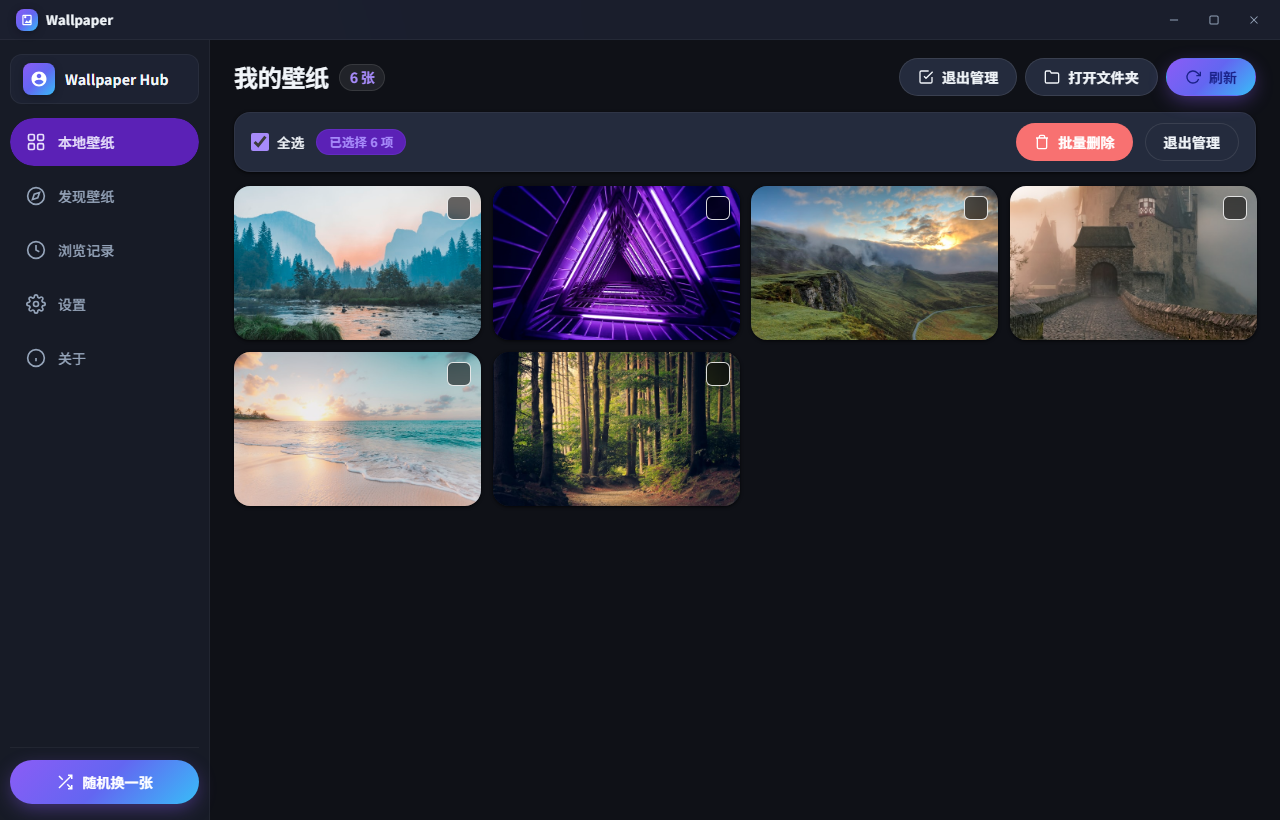
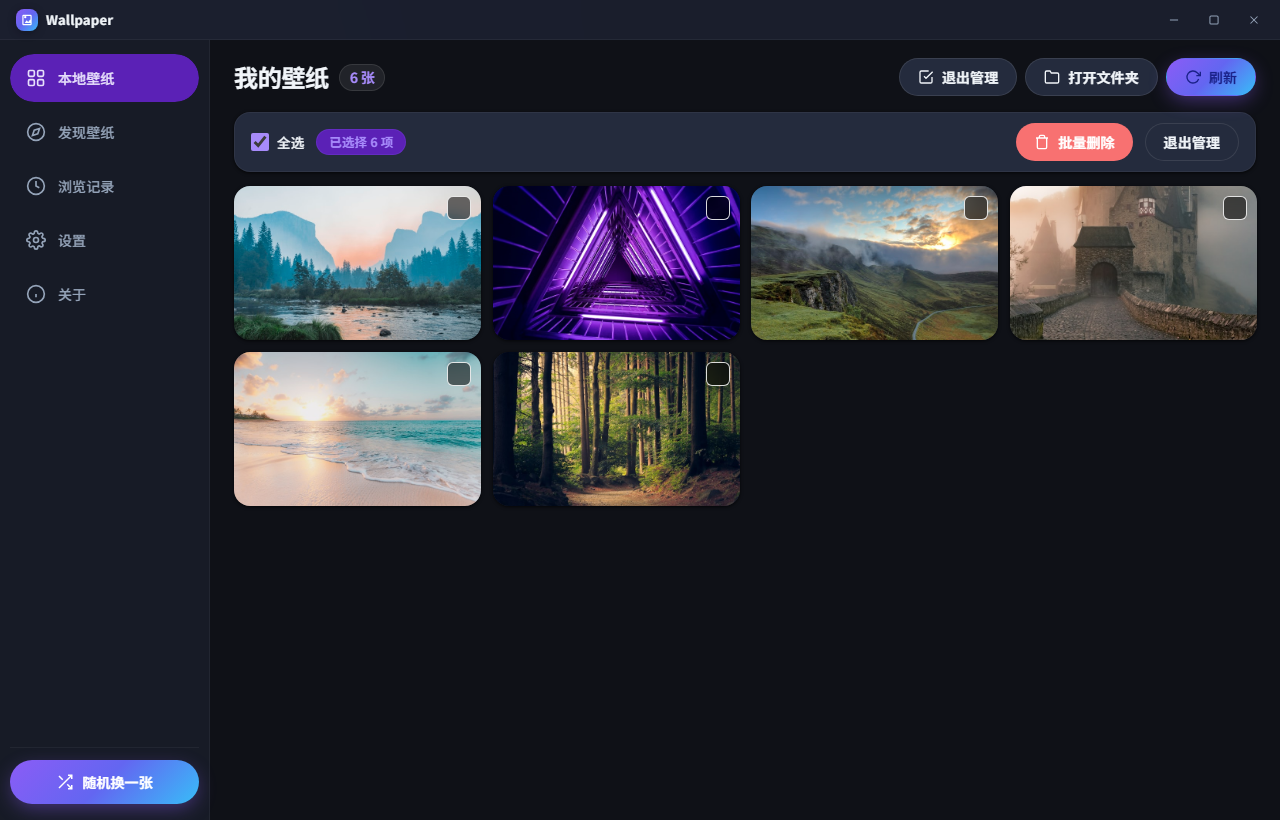
fix(v0.2.1): 优化侧边栏布局，移除响应式折叠断点与顶部卡片
- 移除 @media (max-width: 860px) 响应式折叠规则，解决高 DPI/窄窗口下侧边栏异常压缩为 80px 窄条的问题
- 移除侧边栏顶部冗余的头像及 Wallpaper Hub 用户卡片，导航菜单直接自顶部规范对齐起排
- 锁定侧边栏固定 210px 桌面级横向布局
- 更新界面实景截图并构建发布打包产物

Changed region(s): [[0.0, 0.061, 0.1562, 0.2439], [0.0, 0.2744, 0.0938, 0.3963], [0.0312, 0.4268, 0.0625, 0.4573]]

diff --git a/ui/styles.css b/ui/styles.css
@@ -8,7 +8,6 @@
 :root {
   /* 默认字体：鸿蒙舒适圆润 + Nunito / 微软雅黑 UI */
   --font-family: "HarmonyOS Sans SC", "HarmonyOS Sans", "PingFang SC", "Nunito", "Microsoft YaHei UI", -apple-system, sans-serif;
-  --nav-rail-width: 210px;
 
   /* ==========================================================================
      M3 Color System Tokens (Indigo Default / Master Theme)
@@ -1111,10 +1110,10 @@ body.theme-amoled .flutter-titlebar {
 }
 
 .flutter-nav-rail {
-  width: var(--nav-rail-width, 210px);
-  min-width: var(--nav-rail-width, 210px);
-  max-width: var(--nav-rail-width, 210px);
-  flex: 0 0 var(--nav-rail-width, 210px);
+  width: 210px;
+  min-width: 210px;
+  max-width: 210px;
+  flex: 0 0 210px;
   flex-shrink: 0;
   flex-grow: 0;
   background: var(--md-sys-color-surface-container-low);
@@ -1138,55 +1137,6 @@ body.theme-amoled .flutter-titlebar {
   gap: 14px;
 }
 
-.nav-profile-card {
-  display: flex;
-  align-items: center;
-  gap: 10px;
-  padding: 8px 12px;
-  border-radius: var(--md-shape-corner-md);
-  background: var(--md-sys-color-surface-container);
-  border: 1px solid var(--md-sys-color-outline-variant);
-  transition: background var(--md-sys-motion-duration-short) ease,
-              border-color var(--md-sys-motion-duration-short) ease;
-}
-
-.nav-profile-card:hover {
-  background: var(--md-sys-color-surface-container-high);
-  border-color: var(--md-sys-color-outline);
-}
-
-.nav-profile-avatar {
-  width: 32px;
-  height: 32px;
-  border-radius: var(--md-shape-corner-sm);
-  background: var(--md-sys-color-primary-gradient);
-  display: flex;
-  align-items: center;
-  justify-content: center;
-  box-shadow: 0 2px 8px rgba(0, 0, 0, 0.25);
-  flex-shrink: 0;
-}
-
-.nav-profile-avatar svg {
-  width: 18px;
-  height: 18px;
-  fill: #ffffff;
-}
-
-.nav-profile-info {
-  display: flex;
-  flex-direction: column;
-  overflow: hidden;
-}
-
-.nav-profile-name {
-  font-size: var(--md-sys-typescale-title-small-size, 14px);
-  font-weight: var(--md-sys-typescale-title-small-weight, 600);
-  color: var(--md-sys-color-on-surface);
-  white-space: nowrap;
-  text-overflow: ellipsis;
-  overflow: hidden;
-}
 
 .nav-menu {
   display: flex;
@@ -1386,78 +1336,7 @@ body.theme-amoled .flutter-titlebar {
   fill: none;
 }
 
-/* Responsive / Compact Navigation Rail (80px mode) */
-@media (max-width: 860px) {
-  :root {
-    --nav-rail-width: 80px;
-  }
-  .flutter-nav-rail {
-    width: 80px;
-    min-width: 80px;
-    max-width: 80px;
-    flex: 0 0 80px;
-    flex-shrink: 0;
-    padding: 12px 6px;
-    align-items: center;
-  }
 
-  .nav-profile-card {
-    padding: 6px;
-    justify-content: center;
-    border-radius: var(--md-shape-corner-sm);
-  }
-
-  .nav-profile-info {
-    display: none;
-  }
-
-  .nav-item,
-  .nav-rail-item {
-    flex-direction: column;
-    justify-content: center;
-    align-items: center;
-    gap: 4px;
-    height: 56px;
-    min-height: 56px;
-    max-height: 56px;
-    padding: 6px 2px;
-    border-radius: var(--md-shape-corner-md);
-  }
-
-  .nav-item .indicator-pill,
-  .nav-rail-item .indicator-pill {
-    inset: auto;
-    width: 56px;
-    height: 32px;
-    top: 4px;
-    left: 50%;
-    transform: translateX(-50%);
-    border-radius: var(--md-shape-corner-full);
-  }
-
-  .nav-item.active .indicator-pill,
-  .nav-rail-item.active .indicator-pill {
-    transform: translateX(-50%);
-  }
-
-  .nav-item .nav-item-label,
-  .nav-rail-item .nav-item-label {
-    font-size: 11px;
-    text-align: center;
-  }
-
-  .btn-quick-random span {
-    display: none;
-  }
-
-  .btn-quick-random {
-    width: 48px;
-    height: 48px;
-    padding: 0;
-    margin: 0 auto;
-    border-radius: var(--md-shape-corner-full);
-  }
-}
 
 /* ==========================================================================
    3) Main Stage & Pure Visual Grid

diff --git a/ui/index.html b/ui/index.html
@@ -40,18 +40,6 @@
       <!-- Flutter Navigation Rail -->
       <aside class="flutter-nav-rail" aria-label="Main Navigation">
         <div class="nav-rail-top">
-          <!-- Mini Profile Card -->
-          <div class="nav-profile-card">
-            <div class="nav-profile-avatar">
-              <svg viewBox="0 0 24 24" fill="currentColor">
-                <path d="M12 2C6.48 2 2 6.48 2 12s4.48 10 10 10 10-4.48 10-10S17.52 2 12 2zm0 3c1.66 0 3 1.34 3 3s-1.34 3-3 3-3-1.34-3-3 1.34-3 3-3zm0 14.2c-2.5 0-4.71-1.28-6-3.22.03-1.99 4-3.08 6-3.08 1.99 0 5.97 1.09 6 3.08-1.29 1.94-3.5 3.22-6 3.22z"/>
-              </svg>
-            </div>
-            <div class="nav-profile-info">
-              <span class="nav-profile-name">Wallpaper Hub</span>
-            </div>
-          </div>
-
           <!-- Navigation Items -->
           <nav class="nav-menu" role="navigation" aria-label="Destinations">
             <button class="nav-item nav-rail-item active" id="nav-tab-gallery" data-tab="gallery" aria-label="本地壁纸">
@@ -841,7 +829,7 @@
               </div>
               <h2 class="about-hero-title" data-i18n="about_app_name">Wallpaper 4K 壁纸管理器</h2>
               <div class="about-hero-badge-row">
-                <span class="about-version-badge" id="app-version-label">v0.2.0</span>
+                <span class="about-version-badge" id="app-version-label">v0.2.1</span>
                 <span class="about-tag-badge">Tauri v2</span>
                 <span class="about-tag-badge">Rust 2021</span>
                 <span class="about-tag-badge">Material You</span>
